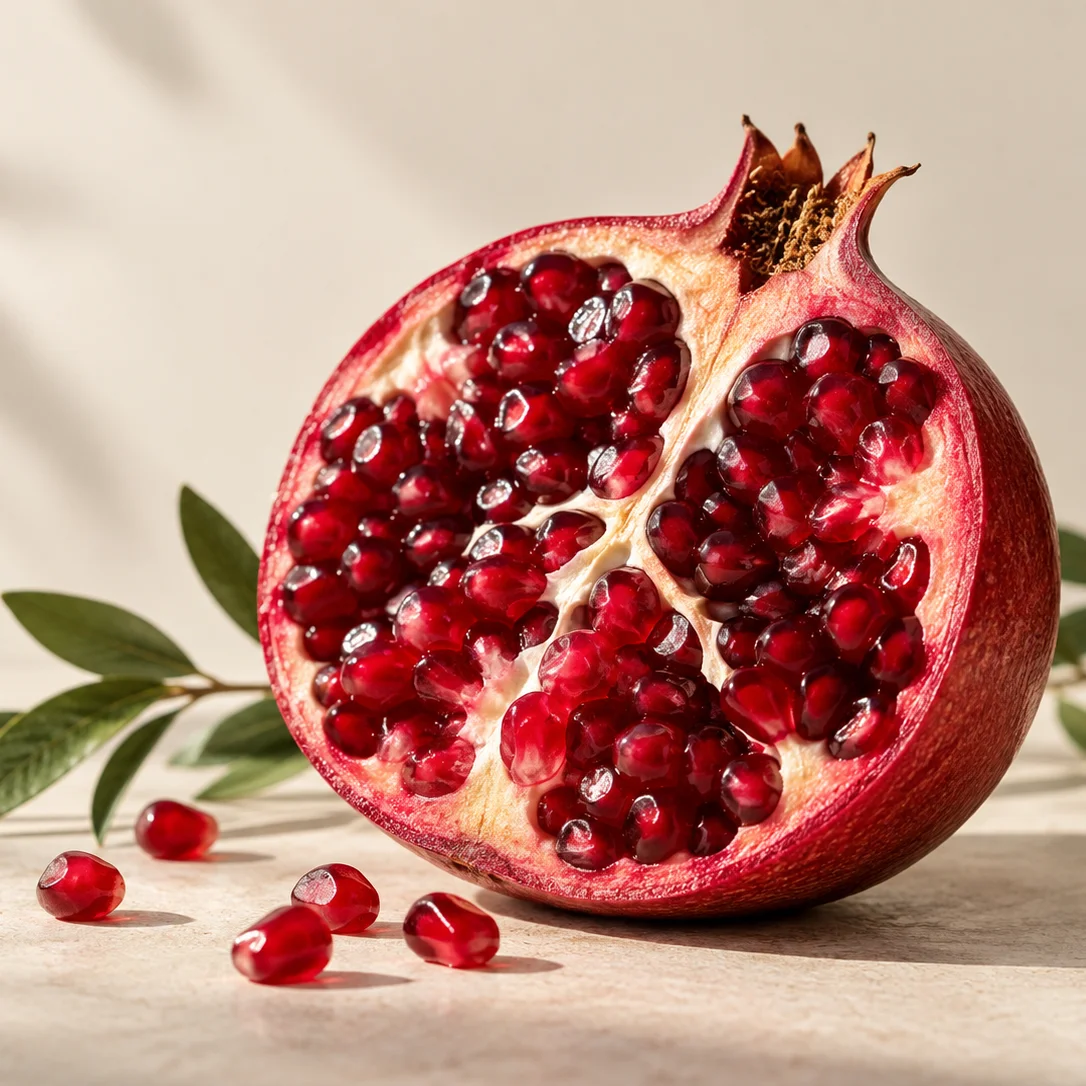
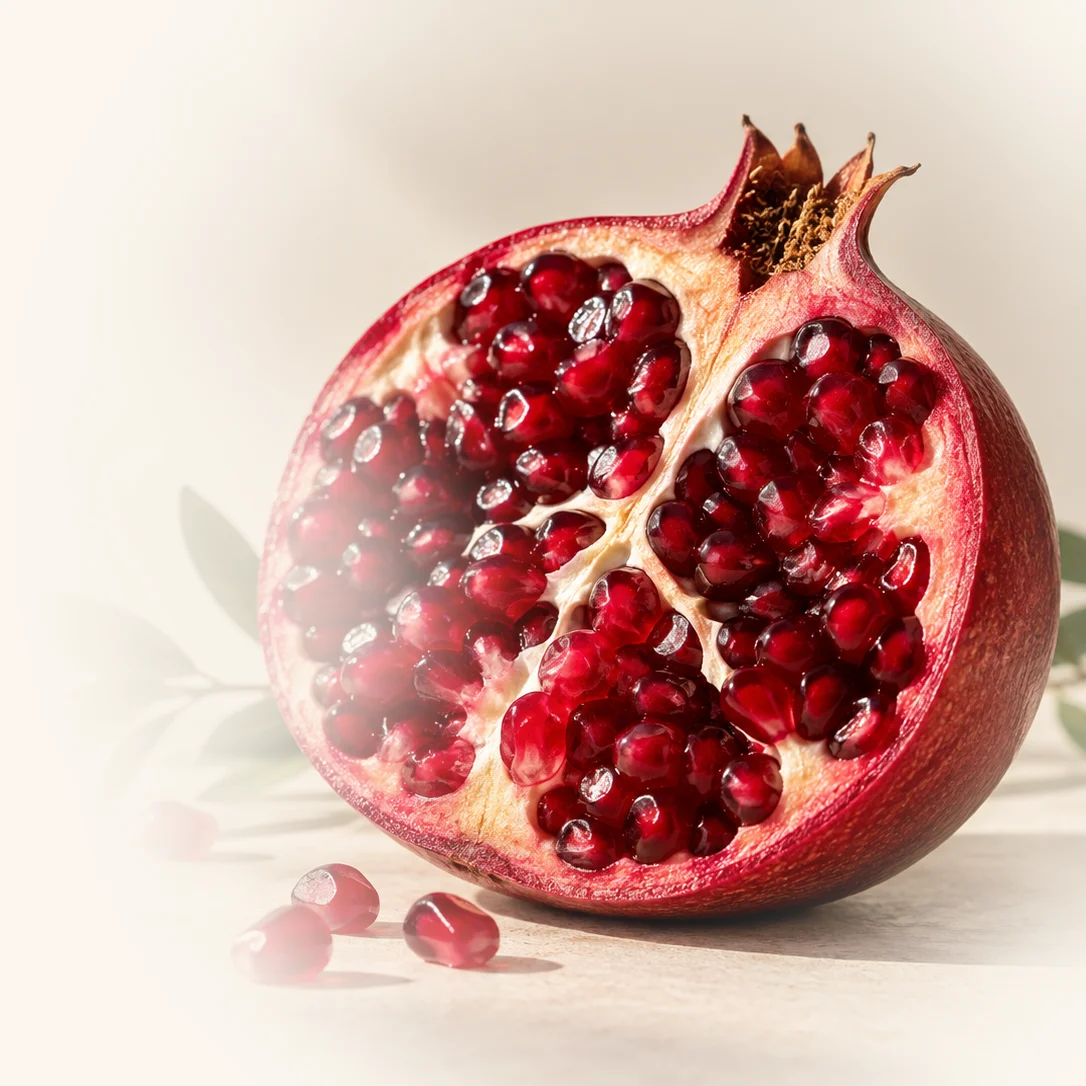
Fix Home hero image integration: remove card look, blend into #FBF6EE
The hero image previously sat in a bordered, shadowed, rounded box --
read as a separate stock photo pasted onto the page ("nuca în perete").
Fixes, Home hero only:

- hero.jpg/hero.webp regenerated: same pomegranate photo, composited
  with a feathered alpha fade directly onto the exact hero background
  color (#FBF6EE), computed from the fruit's real bounding box so the
  whole pomegranate stays fully opaque while the surrounding studio
  backdrop (visible wall/table seam, diagonal shadow band) dissolves
  away at the edges. The olive branch is faded far more aggressively
  via a second, localized suppression mask, so it reads as a soft
  background hint instead of a dominant compositional element -- same
  subject, same crop, no swap to a different food.
- Home.tsx hero section background pinned to the literal #FBF6EE
  (scoped to this section only, not the shared --background token) so
  the image's baked-in edge exactly matches what's behind it.
- Image container: no border, no shadow, no border-radius, no
  aspect-square clip -- the feathered edge is what integrates it now,
  not a box. Bigger on desktop (up to 720px, bleeding slightly past
  the grid column via the section's existing overflow-hidden) with
  more negative space toward the text column; unchanged position/
  dominance on mobile, just without the boxed frame.
- Added a short secondary sentence under the subtitle connecting the
  image to the message: "Nu e vorba doar despre cifre, ci despre
[…]

diff --git a/src/pages/Home.tsx b/src/pages/Home.tsx
@@ -36,8 +36,12 @@ export default function Home() {
 
   return (
     <div className="flex flex-col">
-      {/* Hero */}
-      <section className="relative bg-secondary/40 overflow-hidden pt-7 pb-9 md:pt-14 md:pb-14 lg:pt-20 lg:pb-20">
+      {/* Hero -- background pinned to the exact hex from the finalized hero-image
+          decision (#FBF6EE) so the photo's own feathered edges (baked into
+          hero.jpg/hero.webp, see the composite script) dissolve into it with
+          no visible seam. Scoped to this section only, not the shared
+          --background token. */}
+      <section className="relative bg-[#FBF6EE] overflow-hidden pt-7 pb-9 md:pt-14 md:pb-14 lg:pt-20 lg:pb-20">
         <div className="max-w-[1200px] mx-auto px-[18px] min-[380px]:px-5 lg:px-8">
           <div className="grid lg:grid-cols-[1fr_0.9fr] gap-2 lg:gap-[68px] items-center">
             <motion.div
@@ -54,10 +58,16 @@ export default function Home() {
                 <span className="text-primary">{ro ? "întrebarea potrivită." : "the right question."}</span>
               </h1>
 
-              <p className="text-base lg:text-[18px] leading-[1.5] lg:leading-[1.55] text-muted-foreground max-w-[360px] lg:max-w-[520px] mb-[21px] lg:mb-7">
+              <p className="text-base lg:text-[18px] leading-[1.5] lg:leading-[1.55] text-muted-foreground max-w-[360px] lg:max-w-[520px] mb-2 lg:mb-2.5">
                 {ro
                   ? "Răspunsuri clare, bazate pe dovezi, la întrebările reale despre alimentație, greutate și sănătate."
                   : "Clear, evidence-based answers to real questions about food, weight, and health."}
+              </p>
+
+              <p className="text-sm lg:text-[15px] leading-[1.5] text-muted-foreground/80 italic max-w-[360px] lg:max-w-[480px] mb-[21px] lg:mb-7">
+                {ro
+                  ? "Nu e vorba doar despre cifre, ci despre calitate, varietate și alegeri potrivite pentru tine."
+                  : "It's not just about numbers -- it's about quality, variety, and choices that fit you."}
               </p>
 
               <div className="flex flex-col min-[380px]:flex-row gap-3 mb-[21px] lg:mb-7">
@@ -99,21 +109,22 @@ export default function Home() {
               initial={{ opacity: 0, scale: 0.96 }}
               animate={{ opacity: 1, scale: 1 }}
               transition={{ duration: 0.8, delay: 0.1, ease: "easeOut" }}
-              className="mt-[18px] lg:mt-0"
+              className="mt-2 lg:mt-0 lg:-mr-6 xl:-mr-14"
             >
-              <div className="rounded-[20px] lg:rounded-3xl overflow-hidden shadow-sm aspect-square w-full max-w-[380px] md:max-w-[420px] lg:max-w-[520px] mx-auto lg:mx-0">
-                <picture>
-                  <source srcSet="/images/hero.webp" type="image/webp" />
-                  <img
-                    src="/images/hero.jpg"
-                    alt={ro ? "Rodie tăiată, fotografie editorială Diet4Life" : "Cut pomegranate, Diet4Life editorial photograph"}
-                    width={1086}
-                    height={1086}
-                    loading="eager"
-                    className="w-full h-full object-cover"
-                  />
-                </picture>
-              </div>
+              {/* No card: no border, no shadow, no radius, no aspect-square
+                  clip -- the image's own feathered edge (baked in against
+                  #FBF6EE) is what integrates it into the section, not a box. */}
+              <picture>
+                <source srcSet="/images/hero.webp" type="image/webp" />
+                <img
+                  src="/images/hero.jpg"
+                  alt={ro ? "Rodie tăiată, fotografie editorială Diet4Life" : "Cut pomegranate, Diet4Life editorial photograph"}
+                  width={1086}
+                  height={1086}
+                  loading="eager"
+                  className="w-full h-auto max-w-[400px] md:max-w-[460px] lg:max-w-none lg:w-[640px] xl:w-[720px] mx-auto lg:mx-0 lg:ml-auto"
+                />
+              </picture>
             </motion.div>
           </div>
         </div>
